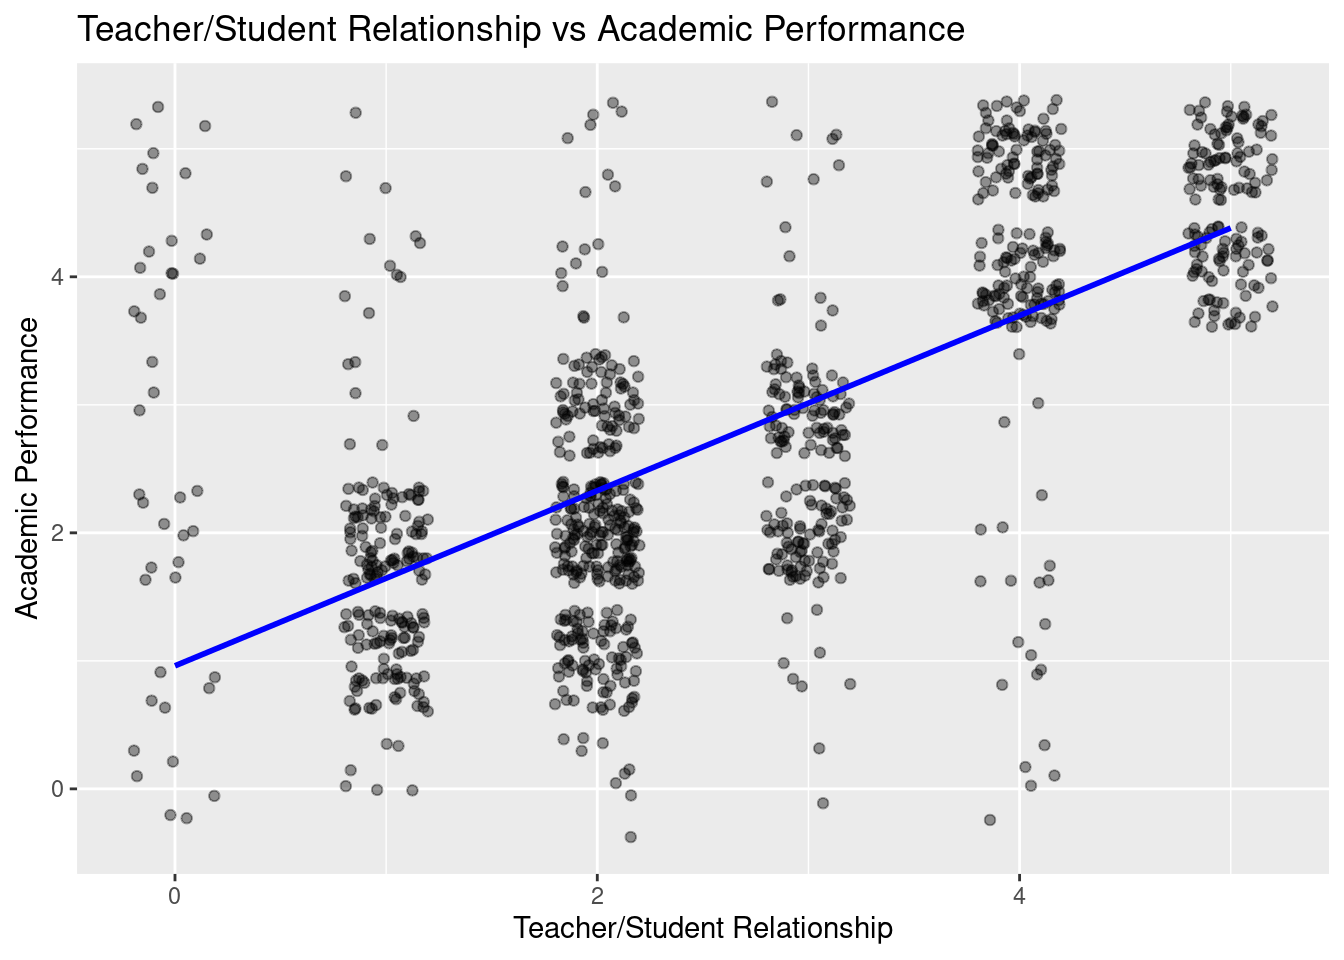
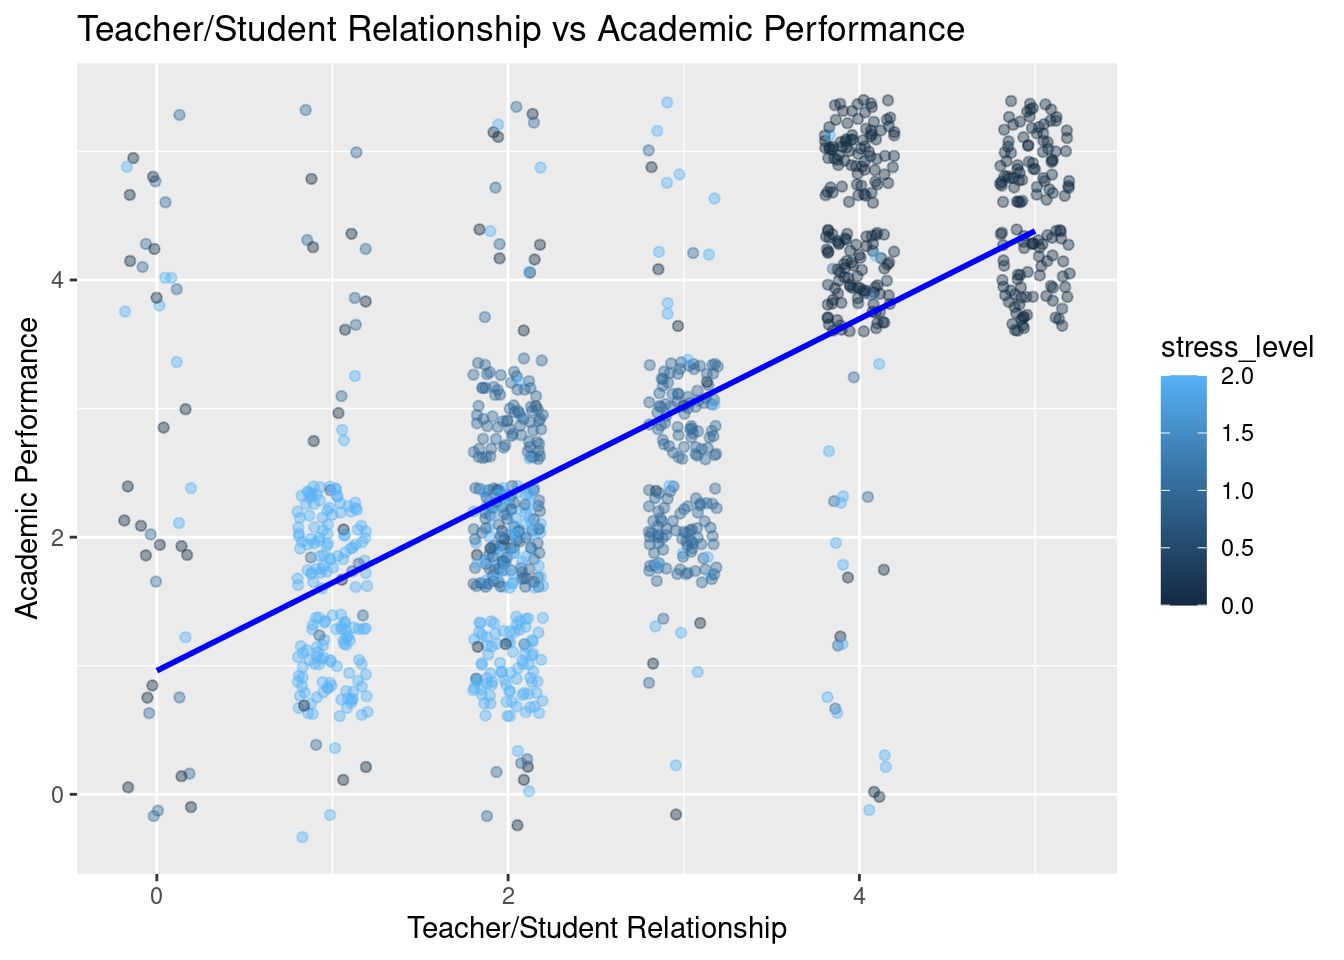
Final fr Graph edits

diff --git a/docs/posts/my_first_post/index.html b/docs/posts/my_first_post/index.html
@@ -224,7 +224,7 @@ pre > code.sourceCode > span > a:first-child::before { text-decoration: underlin
 <span id="cb3-2"><a href="#cb3-2" aria-hidden="true" tabindex="-1"></a></span>
 <span id="cb3-3"><a href="#cb3-3" aria-hidden="true" tabindex="-1"></a><span class="co"># Graph comparing academic performance to Student/Teacher relationships</span></span>
 <span id="cb3-4"><a href="#cb3-4" aria-hidden="true" tabindex="-1"></a></span>
-<span id="cb3-5"><a href="#cb3-5" aria-hidden="true" tabindex="-1"></a>Relationship_vs_Academic <span class="ot">&lt;-</span> <span class="fu">ggplot</span>(mydata, <span class="at">mapping =</span> <span class="fu">aes</span>(<span class="at">x =</span> teacher_student_relationship, <span class="at">y =</span> academic_performance)) <span class="sc">+</span> <span class="fu">geom_jitter</span>(<span class="at">width =</span> <span class="fl">0.2</span>, <span class="at">alpha =</span> <span class="fl">0.4</span>) <span class="sc">+</span> <span class="fu">geom_smooth</span>(<span class="at">method =</span> <span class="st">"lm"</span>, <span class="at">se =</span> <span class="cn">FALSE</span>, <span class="at">color =</span> <span class="st">"blue"</span>) <span class="sc">+</span> <span class="fu">labs</span>(<span class="at">title =</span> <span class="st">"Teacher/Student Relationship vs Academic Performance"</span>, <span class="at">x =</span> <span class="st">"Teacher/Student Relationship"</span>, <span class="at">y =</span> <span class="st">"Academic Performance"</span>)</span>
+<span id="cb3-5"><a href="#cb3-5" aria-hidden="true" tabindex="-1"></a>Relationship_vs_Academic <span class="ot">&lt;-</span> <span class="fu">ggplot</span>(mydata, <span class="at">mapping =</span> <span class="fu">aes</span>(<span class="at">x =</span> teacher_student_relationship, <span class="at">y =</span> academic_performance, <span class="at">color =</span> stress_level)) <span class="sc">+</span> <span class="fu">geom_jitter</span>(<span class="at">width =</span> <span class="fl">0.2</span>, <span class="at">alpha =</span> <span class="fl">0.4</span>) <span class="sc">+</span> <span class="fu">geom_smooth</span>(<span class="at">method =</span> <span class="st">"lm"</span>, <span class="at">se =</span> <span class="cn">FALSE</span>, <span class="at">color =</span> <span class="st">"blue"</span>) <span class="sc">+</span> <span class="fu">labs</span>(<span class="at">title =</span> <span class="st">"Teacher/Student Relationship vs Academic Performance"</span>, <span class="at">x =</span> <span class="st">"Teacher/Student Relationship"</span>, <span class="at">y =</span> <span class="st">"Academic Performance"</span>)</span>
 <span id="cb3-6"><a href="#cb3-6" aria-hidden="true" tabindex="-1"></a></span>
 <span id="cb3-7"><a href="#cb3-7" aria-hidden="true" tabindex="-1"></a>Relationship_vs_Academic</span></code><button title="Copy to Clipboard" class="code-copy-button"><i class="bi"></i></button></pre></div>
 <div class="cell-output cell-output-stderr">
@@ -245,7 +245,7 @@ pre > code.sourceCode > span > a:first-child::before { text-decoration: underlin
 </div>
 <div class="cell">
 <div class="sourceCode cell-code" id="cb7"><pre class="sourceCode r code-with-copy"><code class="sourceCode r"><span id="cb7-1"><a href="#cb7-1" aria-hidden="true" tabindex="-1"></a><span class="co"># academic pressure vs student stress</span></span>
-<span id="cb7-2"><a href="#cb7-2" aria-hidden="true" tabindex="-1"></a><span class="fu">ggplot</span>(mydata, <span class="at">mapping =</span> <span class="fu">aes</span>(<span class="at">x =</span> study_load, <span class="at">y =</span> stress_level, <span class="at">color =</span> social_support)) <span class="sc">+</span> <span class="fu">geom_point</span>(<span class="at">position =</span> <span class="st">"jitter"</span>) <span class="sc">+</span> <span class="fu">geom_smooth</span>(<span class="at">method =</span> <span class="st">"lm"</span>) <span class="sc">+</span> <span class="fu">labs</span>(<span class="at">title =</span> <span class="st">"Relationship Between Study Load, Social Support, and Stress Level"</span> )</span></code><button title="Copy to Clipboard" class="code-copy-button"><i class="bi"></i></button></pre></div>
+<span id="cb7-2"><a href="#cb7-2" aria-hidden="true" tabindex="-1"></a><span class="fu">ggplot</span>(mydata, <span class="at">mapping =</span> <span class="fu">aes</span>(<span class="at">y =</span> study_load, <span class="at">x =</span> social_support, <span class="at">color =</span> stress_level)) <span class="sc">+</span> <span class="fu">geom_point</span>(<span class="at">position =</span> <span class="st">"jitter"</span>) <span class="sc">+</span> <span class="fu">geom_smooth</span>(<span class="at">method =</span> <span class="st">"lm"</span>) <span class="sc">+</span> <span class="fu">labs</span>(<span class="at">title =</span> <span class="st">"Relationship Between Study Load, Social Support, and Stress Level"</span> )</span></code><button title="Copy to Clipboard" class="code-copy-button"><i class="bi"></i></button></pre></div>
 <div class="cell-output cell-output-stderr">
 <pre><code>`geom_smooth()` using formula = 'y ~ x'</code></pre>
 </div>

diff --git a/docs/index.html b/docs/index.html
@@ -214,7 +214,7 @@ window.Quarto = {
 
 <div class="quarto-listing quarto-listing-container-default" id="listing-listing">
 <div class="list quarto-listing-default">
-<div class="quarto-post image-right" data-index="0" data-categories="ZWR1Y2F0aW9uJTJDc3RyZXNz" data-listing-date-sort="1754611200000" data-listing-file-modified-sort="1754676561317" data-listing-date-modified-sort="NaN" data-listing-reading-time-sort="2" data-listing-word-count-sort="322">
+<div class="quarto-post image-right" data-index="0" data-categories="ZWR1Y2F0aW9uJTJDc3RyZXNz" data-listing-date-sort="1754611200000" data-listing-file-modified-sort="1755019560559" data-listing-date-modified-sort="NaN" data-listing-reading-time-sort="2" data-listing-word-count-sort="325">
 <div class="thumbnail"><a href="./posts/my_first_post/index.html" class="no-external">
 
 <p class="card-img-top"><img src="posts/my_first_post/index_files/figure-html/unnamed-chunk-1-1.png"  class="thumbnail-image card-img"/></p>
